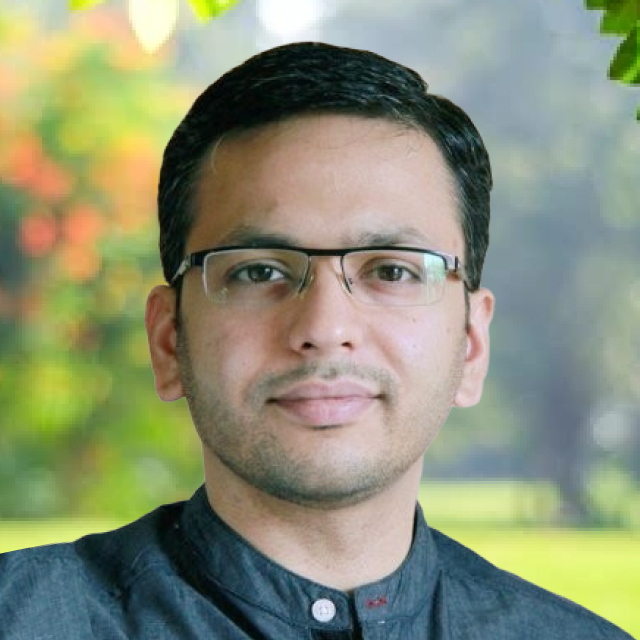
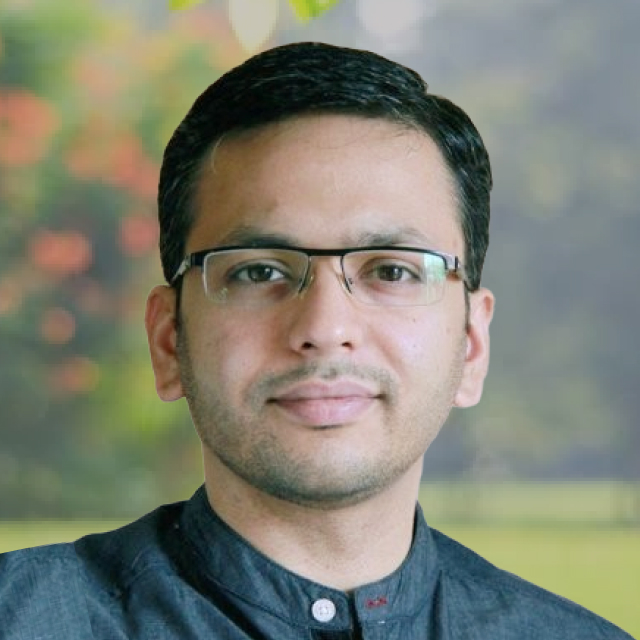
Fix photos and copy

diff --git a/index.html b/index.html
@@ -52,21 +52,24 @@
 
   <div class="section-top">
     <h1 class="text-primary anim-fade-in-up delay-1">
-      UX Day'24 <svg class="x-logo anim-spin-wheel"width="24" height="24" viewBox="0 0 24 24" fill="none" xmlns="http://www.w3.org/2000/svg">
+      UX Day'24
+      <svg class="x-logo anim-spin-wheel"width="24" height="24" viewBox="0 0 24 24" fill="none" xmlns="http://www.w3.org/2000/svg">
         <path d="M11.4223 7.38164C11.7837 7.63654 12.2664 7.63654 12.6279 7.38164L21.2221 1.32047C22.1816 0.643764 23.3562 1.81842 22.6795 2.77793L16.6184 11.3721C16.3635 11.7336 16.3635 12.2163 16.6184 12.5777L22.7997 21.3422C23.4723 22.2959 22.3141 23.468 21.3525 22.8068L12.475 16.7036C12.115 16.4561 11.6391 16.4584 11.2815 16.7095L2.77429 22.6826C1.8154 23.3559 0.644097 22.1846 1.31736 21.2257L7.29053 12.7185C7.54158 12.3609 7.54392 11.885 7.29642 11.525L1.19317 2.64753C0.532017 1.68585 1.70408 0.527727 2.65778 1.20034L11.4223 7.38164Z"/>
         </svg>
-        
-        The AI Moment</h1>
-    <p class="text-secondary anim-fade-in-up delay-2">
-      Join us on 15 March 2024 for a journey into the future of User Experience, centered around the theme: 'The AI Moment'. This year, we're hosting the event simultaneously across Bangalore, Noida, and Hyderabad, with each location offering a unique blend of insights, experiences, and opportunities.</p>
+        The AI Moment
+      </h1>
+      <p class="text-secondary anim-fade-in-up delay-2">
+        Join us on 15 March 2024 for a journey into the future of User Experience, centered around the theme: 'The AI Moment'. This year, we're hosting the event simultaneously across Bangalore, Noida, and Hyderabad, with each location offering a unique blend of insights, experiences, and opportunities.
+      </p>
 
       <p class="text-secondary anim-fade-in-up delay-2">
         Expect vibrant discussions with both industry members and our in-house community of designers, making it a unique forum to share knowledge and experiences at the intersection of Design and AI.
       </p>
 
       <p class="text-secondary anim-fade-in-up delay-2">
-      The event is free of charge, but space is limited. Request an invite now!</p>
-      </p>  
+      The event is free to attend, but space is limited. Request an invite now!
+      </p>
+
     <a 
     id="topbtn" 
     class="button button-accent anim-fade-in-up delay-3" 
@@ -124,7 +127,7 @@
     <div class="person-card">
       <div class="img-overlay-wrap">
         <img class="isoverlay" src="frame-1.svg">
-        <img class="person-photo" src="raman_logannathan.jpg">
+        <img class="person-photo" src="ramesh_logannathan.jpg">
       </div>
       <div class="person-details">
         <p class="person-name">Ramesh Loganathan</p>
